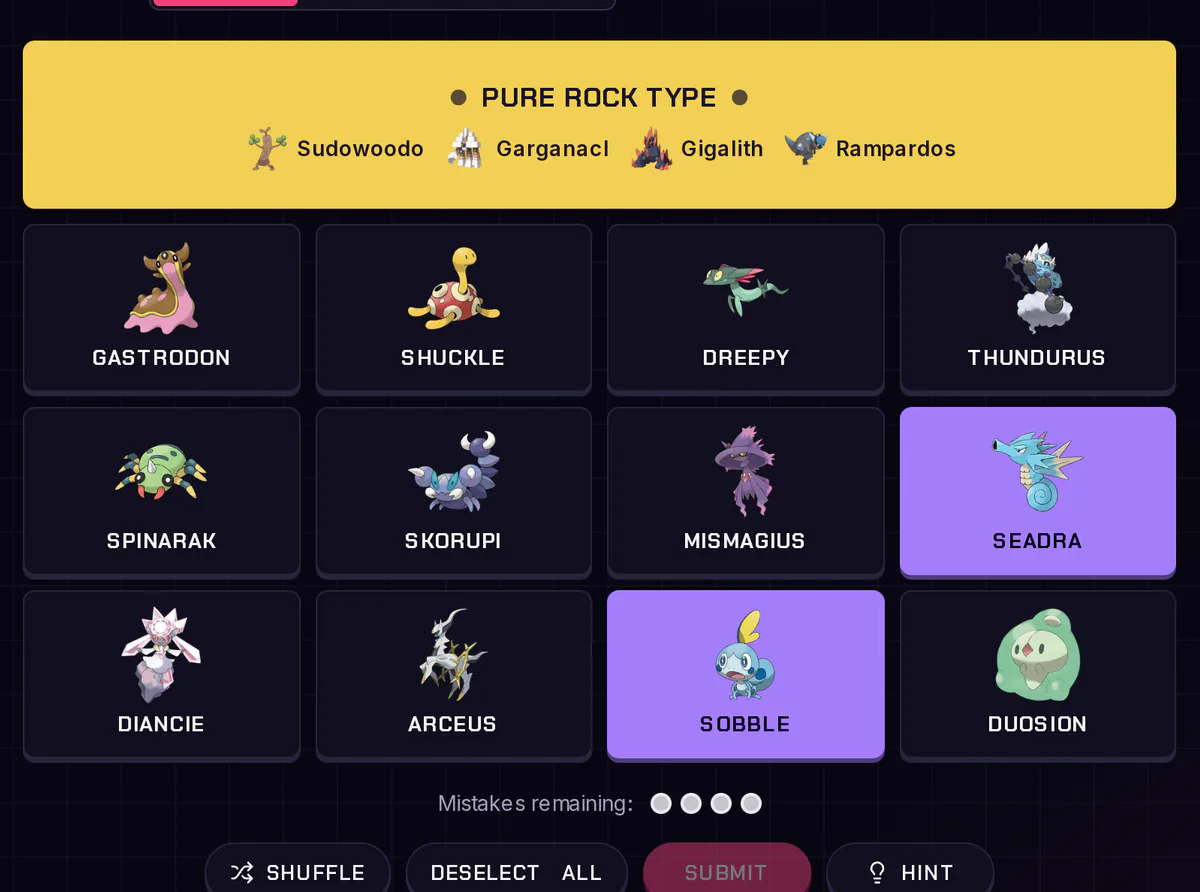
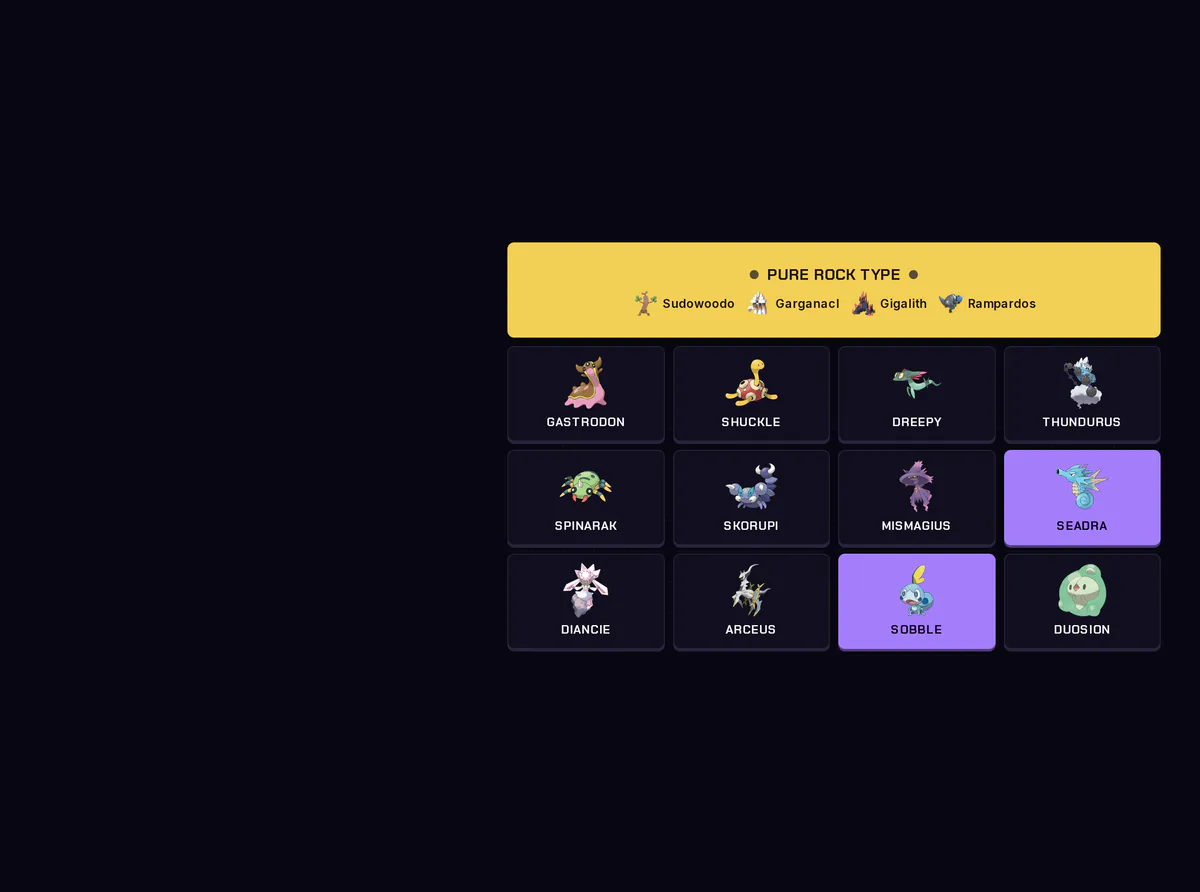
Home slides: subject clear of the headline, a quiz in play
On the wide title screen each screenshot now sits in the right half of
the picture, clear of the headline, and phones get their own 16:9 crop
with the subject centred. Connections shows the solved group and the
tiles without its buttons, and Quizzes shows a Who's That Pokémon
question in play instead of the list of modes.

diff --git a/src/components/home/sections.ts b/src/components/home/sections.ts
@@ -3,7 +3,10 @@ import { LAB_PATH } from "@/lib/lab";
 
 /** A screenshot in /public for the title screen's slideshow. */
 export interface SectionShot {
+  /** For the wide title screen: the subject sits in the right half, clear of the headline. */
   src: string;
+  /** For phones, where the picture sits above the text: the subject centred. Defaults to `src`. */
+  small?: string;
   width: number;
   height: number;
   alt: string;
@@ -49,7 +52,7 @@ export const HOME_SECTIONS: HomeSection[] = [
     cta: "Play",
     icon: Search,
     accent: "258 94% 74%",
-    shot: { src: "/home/pokedle.webp", width: 1200, height: 892, alt: "A Pokédle board partway through today's game" },
+    shot: { src: "/home/pokedle.webp", small: "/home/pokedle-sm.webp", width: 1200, height: 892, alt: "A Pokédle board partway through today's game" },
   },
   {
     id: "connections",
@@ -59,7 +62,7 @@ export const HOME_SECTIONS: HomeSection[] = [
     cta: "Play",
     icon: LayoutGrid,
     accent: "42 98% 60%",
-    shot: { src: "/home/connections.webp", width: 1200, height: 892, alt: "A PokéConnections board with one group found" },
+    shot: { src: "/home/connections.webp", small: "/home/connections-sm.webp", width: 1200, height: 892, alt: "A PokéConnections board with one group found" },
   },
   {
     id: "pikadoku",
@@ -69,7 +72,7 @@ export const HOME_SECTIONS: HomeSection[] = [
     cta: "Play",
     icon: Grid3x3,
     accent: "190 90% 55%",
-    shot: { src: "/home/pikadoku.webp", width: 1200, height: 892, alt: "A Pikadoku grid with a few Pokémon filled in" },
+    shot: { src: "/home/pikadoku.webp", small: "/home/pikadoku-sm.webp", width: 1200, height: 892, alt: "A Pikadoku grid with a few Pokémon filled in" },
   },
   {
     id: "battle",
@@ -79,7 +82,7 @@ export const HOME_SECTIONS: HomeSection[] = [
     cta: "Battle",
     icon: Swords,
     accent: "340 86% 60%",
-    shot: { src: "/home/battle.webp", width: 1200, height: 892, alt: "A Pokémon battle in progress" },
+    shot: { src: "/home/battle.webp", small: "/home/battle-sm.webp", width: 1200, height: 892, alt: "A Pokémon battle in progress" },
   },
   {
     id: "quizzes",
@@ -89,7 +92,7 @@ export const HOME_SECTIONS: HomeSection[] = [
     cta: "Play",
     icon: Gamepad2,
     accent: "24 95% 58%",
-    shot: { src: "/home/quizzes.webp", width: 1200, height: 892, alt: "The list of PokéIQ quizzes" },
+    shot: { src: "/home/quizzes.webp", small: "/home/quizzes-sm.webp", width: 1200, height: 892, alt: "A Who's That Pokémon question in play" },
   },
   {
     id: "pokedex",

diff --git a/src/components/home/HeroCarousel.tsx b/src/components/home/HeroCarousel.tsx
@@ -29,6 +29,8 @@ export function HeroCarousel({ guessr }: { guessr: { slides: ShowcaseSlide[]; ma
   const [playing, setPlaying] = useState(true);
   const [started, setStarted] = useState(false);
   const [mounted, setMounted] = useState<ReadonlySet<number>>(() => new Set([0]));
+  // The wide title screen and a phone crop the screenshots differently; known once the page runs.
+  const [wide, setWide] = useState<boolean | null>(null);
   const [hidden, setHidden] = useState(false);
   const [focused, setFocused] = useState(false);
   const count = HOME_SECTIONS.length;
@@ -57,6 +59,14 @@ export function HeroCarousel({ guessr }: { guessr: { slides: ShowcaseSlide[]; ma
       if (timer !== undefined) window.clearTimeout(timer);
       if (idle !== undefined && typeof window.cancelIdleCallback === "function") window.cancelIdleCallback(idle);
     };
+  }, []);
+
+  useEffect(() => {
+    const query = window.matchMedia("(min-width: 1024px)");
+    const sync = () => setWide(query.matches);
+    sync();
+    query.addEventListener("change", sync);
+    return () => query.removeEventListener("change", sync);
   }, []);
 
   useEffect(() => {
@@ -127,14 +137,14 @@ export function HeroCarousel({ guessr }: { guessr: { slides: ShowcaseSlide[]; ma
               style={{ transitionDuration: `${FADE_MS}ms` }}
             >
               {section.shot ? (
-                mounted.has(i) ? (
+                mounted.has(i) && wide !== null ? (
                   <>
                     <Image
-                      src={section.shot.src}
+                      src={wide ? section.shot.src : (section.shot.small ?? section.shot.src)}
                       alt={section.shot.alt}
                       width={section.shot.width}
                       height={section.shot.height}
-                      sizes="(min-width: 1024px) 760px, 100vw"
+                      sizes={wide ? "760px" : "100vw"}
                       loading="eager"
                       fetchPriority="low"
                       className="absolute inset-0 h-full w-full select-none object-cover"
